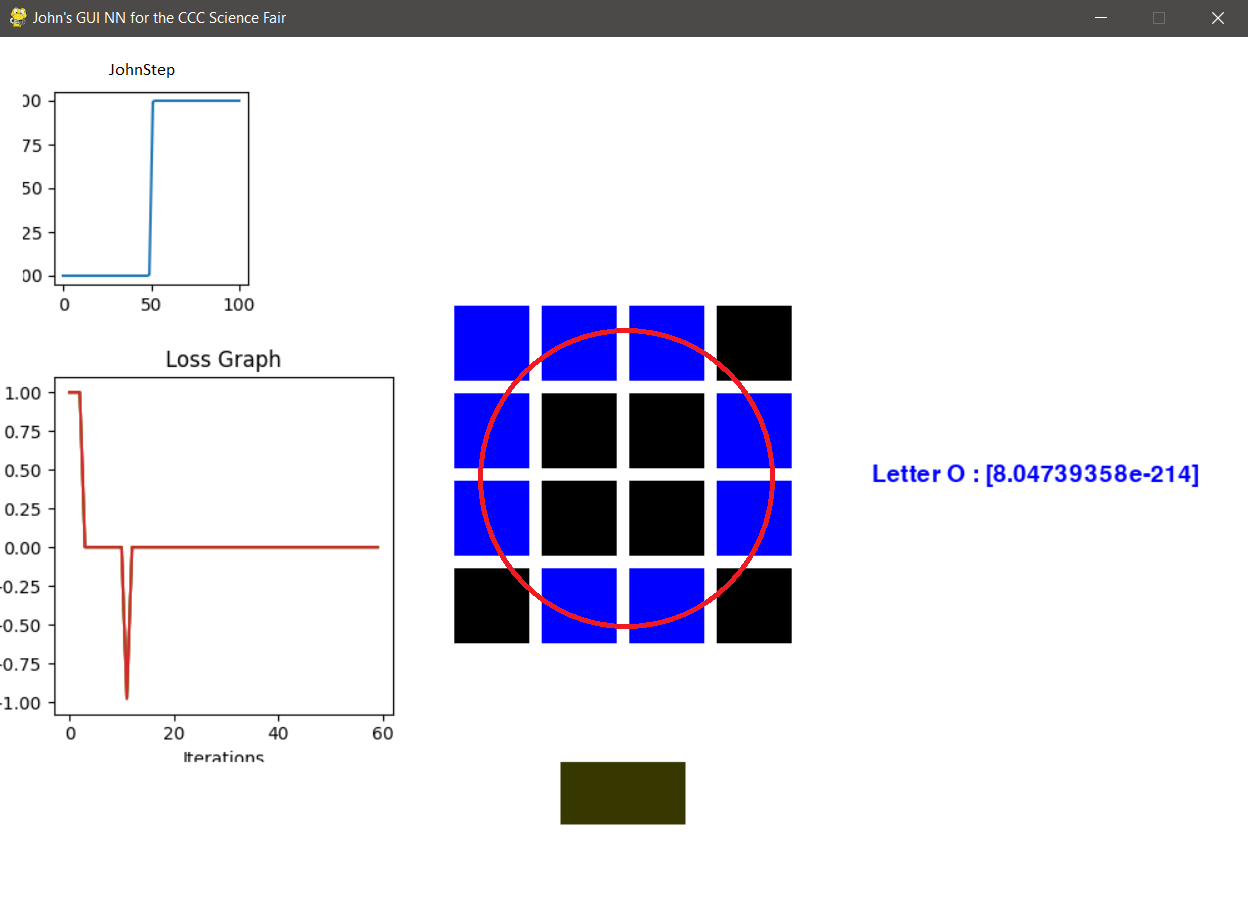
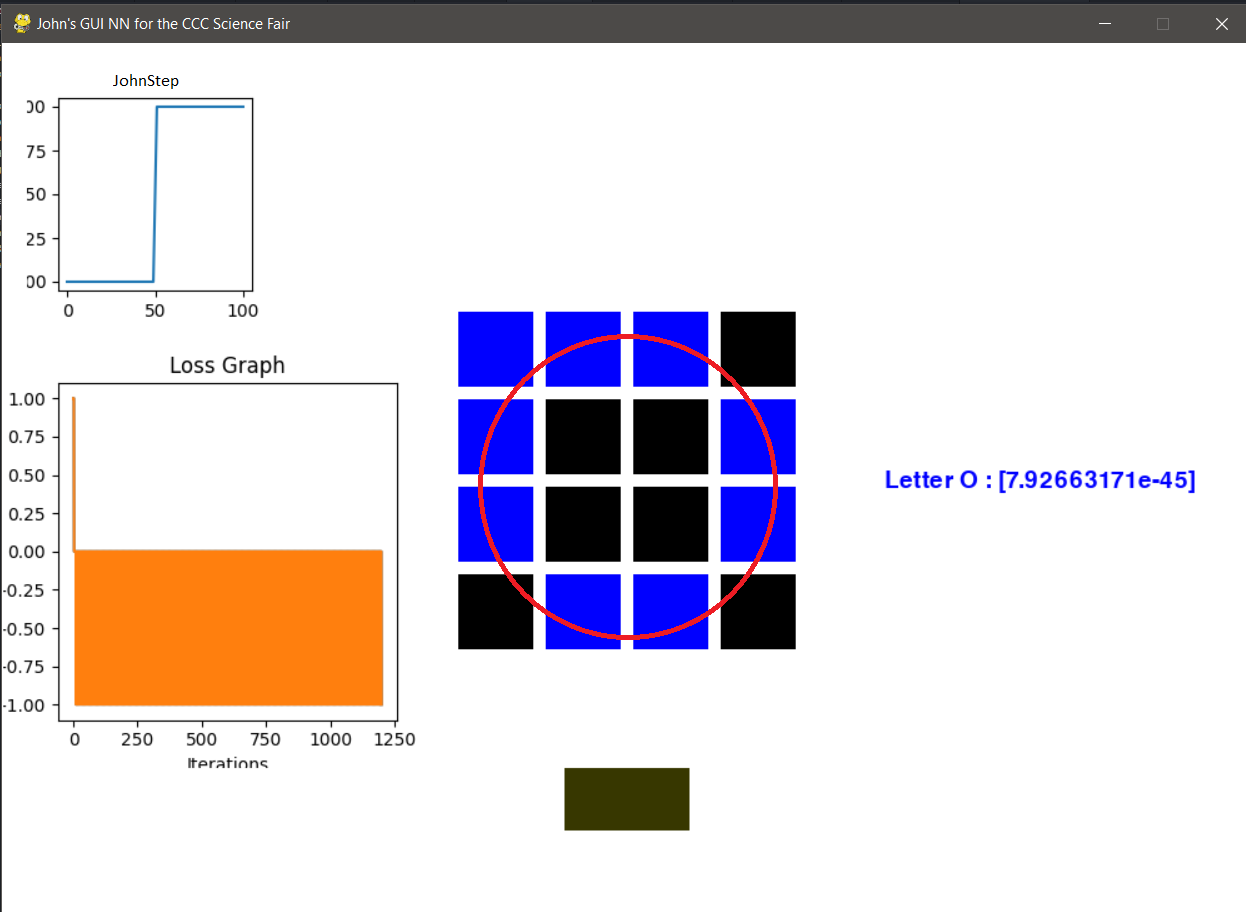
Edit John Step

diff --git a/graphics.py b/graphics.py
@@ -22,7 +22,7 @@ lossg = lossFig.gca()
 valueRange = []
 index = -5.0
 while index <= 5.0:
-	valueRange.append(sigmoid(index))
+	valueRange.append(johnStep(index))
 	index += .1
 
 

diff --git a/activations.py b/activations.py
@@ -49,7 +49,7 @@ def johnStep(x):
   return 1 / (1 + e**(-100*x))
 
 def DjohnStep(x):
-  return johnStep(x)*(1.0*johnStep(x))
+  return johnStep(x)*(1.0 - johnStep(x))
 
 
 """

diff --git a/README.md b/README.md
@@ -146,37 +146,36 @@ average loss = (.37140404 + .00113348)/2 = **0.18626326**
 # JohnStep (My activation):
 To predict Slash:
 
-Works when presented training input:
-<img src="results/johnStep_slash_worked.png"/>
+<img src="results/johnStep_slash.png"/>
 
-Any alteration and it was incorrect:
-<img src="results/johnStep_slash_fail2.png"/>
 
 To predict O:
 <img src="results/johnStep_O.png"/>
 
-loss for slash_1 = 1 - 0.999999474 = 5.26E-6
+loss for slash = 1 - 1 = 0
 
-loss for slash_2 = 1 - 3.36293543E-37 = 1
+loss for O = 7.92663171e-45 - 0 = 7.92663171e-45 (Negative Loss!)
 
-loss for O = 8.04739358E-214 - 0 = 8.04739358E-214
-
-average loss = **(5.26E-6 + 1 + 8.04739358E-214)/3**
+average loss = **(7.92663171e-45)/2**
 
 - Notice how my activation function was accurate for the letter O, but had somewhat of a bias toward the O since it only correctly predicted the slash when the inputs perfectly matched the training inputs.
 
 
 Since the inputs varided in the examples for the sake of demonstrating the model's predictbilty, below is a table of multiple test runs where all activation functions were given the xat same inputs.
 
-|  **Activation Function** |  **loss of Slash:**<img src="assets/slash1.png" height="40px"/> |  **loss of Slash:**<img src="assets/slash2.png" height="40px"/> |  **loss of O:**<img src="assets/o1.png" height="40px"/> |  **loss of O:**<img src="assets/o2.png" height="40px"/>  | **Average Loss** |
+|  **Activation Function** |  **loss of Slash:** <br/><img src="assets/slash1.png" height="40px"/> |  **loss of Slash:** <br/><img src="assets/slash2.png" height="40px"/> |  **loss of O:** <br/><img src="assets/o1.png" height="40px"/> |  **loss of O:** <br/><img src="assets/o2.png" height="40px"/>  | **Average Loss** |
 |-|-|-|-|-|-|
 | Sigmoid (2nd place) | 0.04308203 | 0.00474277 | 0.00051447 | 0.00021294 | 0.01213811 |
 | Binary Step (Winner) | 0.0 | 0.0 | 0.0 | 0.0 | 0.0 |
-| Softplus (3rd place) | 0.32320652| 1.99036231 | 0.00069685 | 0.00076116 | 0.57875671 |
-| JohnStep (Last place) | 1 - 8.855796e-49 | 0.00000438  | 9.73265818e-233 | 2.81568323e-205 | TBC |
+| Softplus | 0.32320652| 1.99036231 | 0.00069685 | 0.00076116 | 0.57875671 |
+| JohnStep  | 0.0 | 0.0  | 2.73948305e-40 | 3.4227851e-70 | TBC |
 
 ## Conclusion 
 
 The best activation function for this task was ---- I suspect this is because 
 
 The reason the Sofplus didn't do as well is becuase it does not range strictly from 0 to 1, instead it ranges from 0 to infinity this allows the output to be greator than 1 which is not usefull in this case.
+
+
+The JohnStep attempted to combine both the Sigmoid and the Binary Step (The two most effective activations).
+While the JohnStep predicted slashes with ease (No loss), some weird behavior arose when predicting the letter O. As seen in the loss graph, the loss went into the negatives and stayed there, this is odd behavior.
